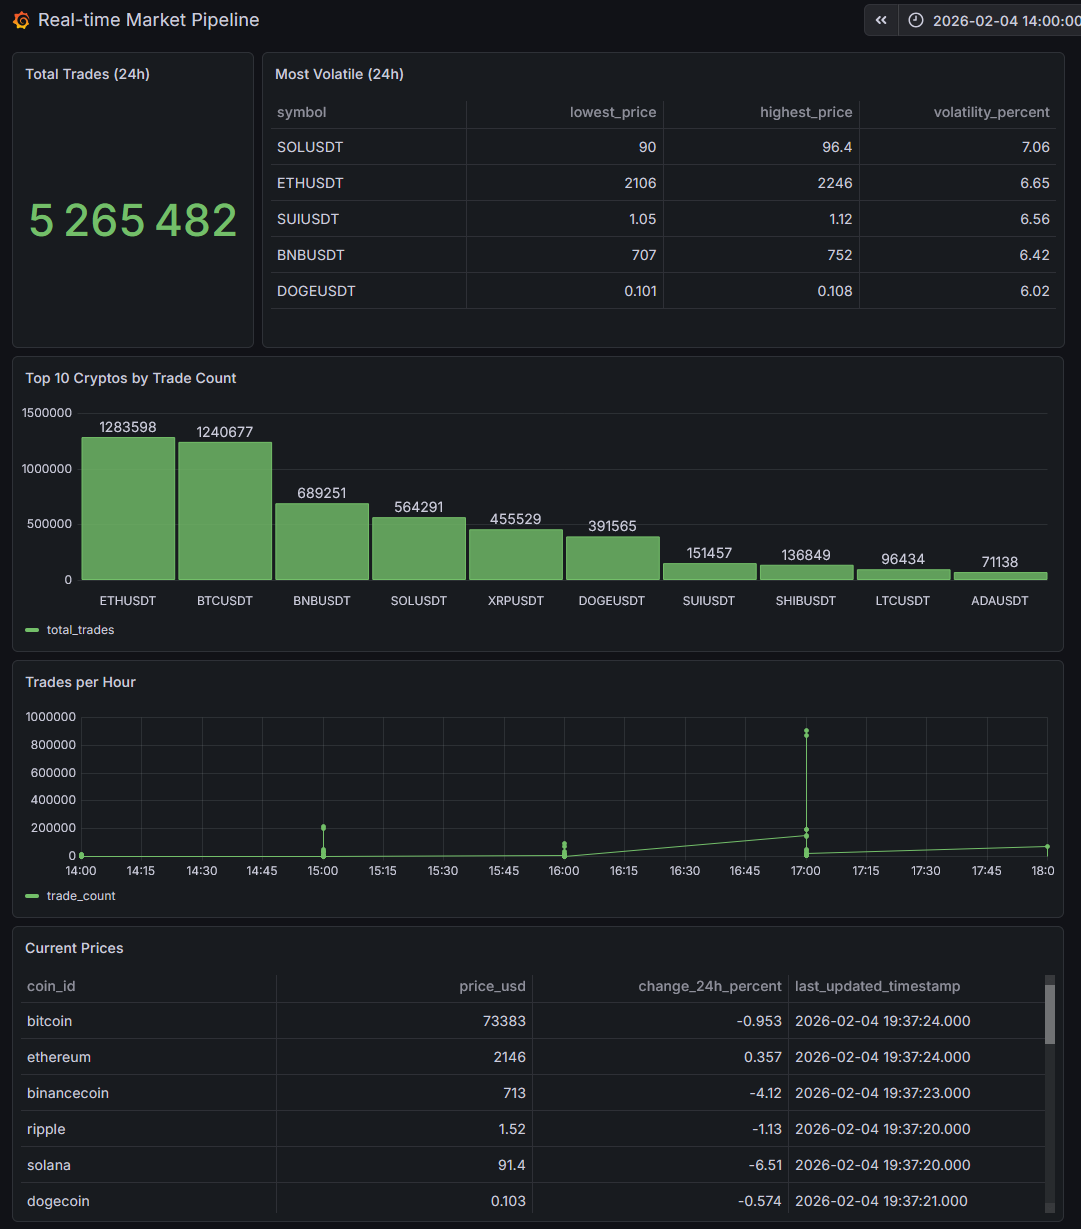
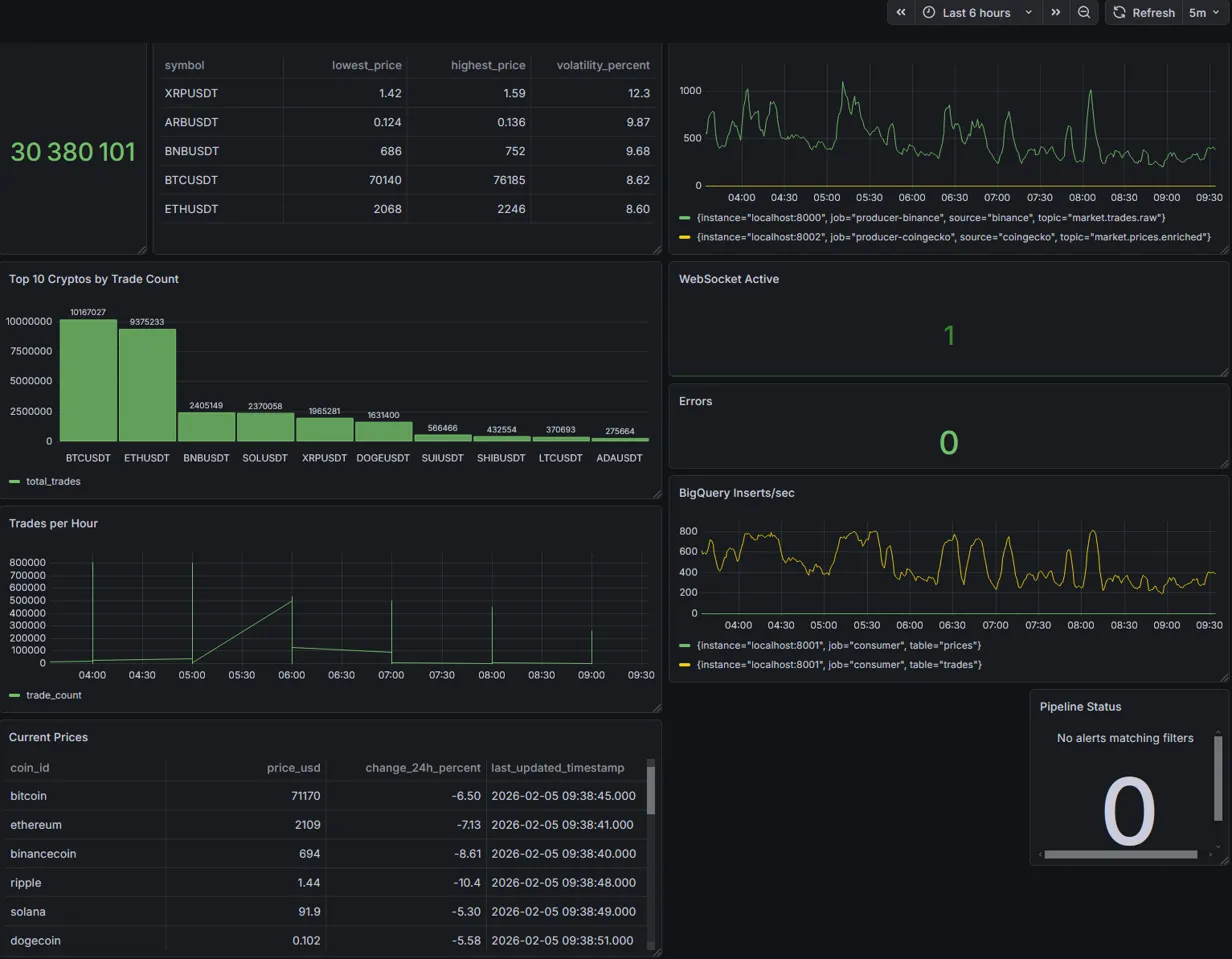
docs: update README with monitoring, alerting, and cloud deployment (#6)
* feat: add dbt, Airflow with PostgreSQL, Docker Compose orchestration

* feat: complete Phase 5 - Grafana dashboard

* feat: complete Phase 5 - Grafana dashboard

* docs: update README with monitoring, alerting, and cloud deployment

diff --git a/README.md b/README.md
@@ -14,7 +14,7 @@ Production-grade real-time cryptocurrency market data pipeline with multi-source
 
 **[➡ View Real-time Dashboard](https://cloudspawn.grafana.net/public-dashboards/39de7467de6e4ffd90d2605eda0a6999)**
 
-Live data from Binance & CoinGecko, transformed by dbt, refreshed every 10 minutes.
+Live data from Binance & CoinGecko, transformed by dbt, refreshed every 5 minutes.
 
 ![Dashboard Overview](docs/screenshots/dashboard-grafana-overview.png)
 
@@ -55,8 +55,10 @@ Live data from Binance & CoinGecko, transformed by dbt, refreshed every 10 minut
 ┌─────────────────────────────────────────────────────────────────┐
 │                       MONITORING                                │
 ├─────────────────────────────────────────────────────────────────┤
-│  Prometheus ◀── metrics (throughput, errors, connections)      │
-│  Grafana Cloud ──▶ dashboards (BigQuery data)                  │
+│  Grafana Agent ──▶ Prometheus metrics ──▶ Grafana Cloud        │
+│                                                                 │
+│  Metrics: throughput, errors, connections, inserts              │
+│  Alerts: Pipeline Down (WebSocket disconnection)                │
 └─────────────────────────────────────────────────────────────────┘
 ```
 
@@ -73,11 +75,15 @@ Live data from Binance & CoinGecko, transformed by dbt, refreshed every 10 minut
 - **dbt**: Layered transformations (staging → intermediate → marts)
 - **Docker Compose**: Full stack orchestration
 
+### Monitoring & Alerting
+- **Prometheus metrics**: Messages/sec, errors, WebSocket connections, BigQuery inserts
+- **Grafana Agent**: Push metrics to Grafana Cloud (no exposed ports)
+- **Alerting**: Pipeline Down alert when WebSocket disconnects
+
 ### Production Patterns
 - Retry with exponential backoff
 - Graceful shutdown handling
 - Dead Letter Queue for failed messages
-- Prometheus metrics instrumentation
 - Structured JSON logging
 
 ## Screenshots
@@ -172,6 +178,23 @@ docker compose logs -f airflow-scheduler
 docker compose down
 ```
 
+## Cloud Deployment
+
+The pipeline runs on a GCP VM (e2-medium) with Grafana Agent pushing metrics to Grafana Cloud.
+
+### Setup Grafana Agent
+```bash
+# Install
+curl -O -L https://github.com/grafana/agent/releases/download/v0.43.3/grafana-agent-linux-amd64.zip
+unzip grafana-agent-linux-amd64.zip
+sudo mv grafana-agent-linux-amd64 /usr/local/bin/grafana-agent
+
+# Configure /etc/grafana-agent.yaml with your Grafana Cloud credentials
+
+# Run
+sudo grafana-agent --config.file=/etc/grafana-agent.yaml &
+```
+
 ## Configuration
 
 See `.env.example` for all available settings.
@@ -211,6 +234,14 @@ Prometheus metrics exposed on each service:
 | `consumer_messages_consumed_total` | Counter | Messages consumed |
 | `consumer_messages_inserted_total` | Counter | Messages inserted to BigQuery |
 
+## Alerting
+
+| Alert | Condition | Description |
+|-------|-----------|-------------|
+| Pipeline Down | `producer_websocket_connections < 1` | WebSocket disconnected |
+
+Alerts are configured in Grafana Cloud and visible on the dashboard.
+
 ## Roadmap
 
 - [x] Multi-source ingestion (Binance, CoinGecko)
@@ -221,8 +252,9 @@ Prometheus metrics exposed on each service:
 - [x] Airflow orchestration
 - [x] Docker Compose deployment
 - [x] Grafana Cloud dashboard
-- [ ] Prometheus metrics in Grafana (cloud VM)
-- [ ] Alerting rules
+- [x] Prometheus metrics with Grafana Agent
+- [x] Alerting rules
+- [x] Cloud VM deployment (GCP)
 
 ## License
 
